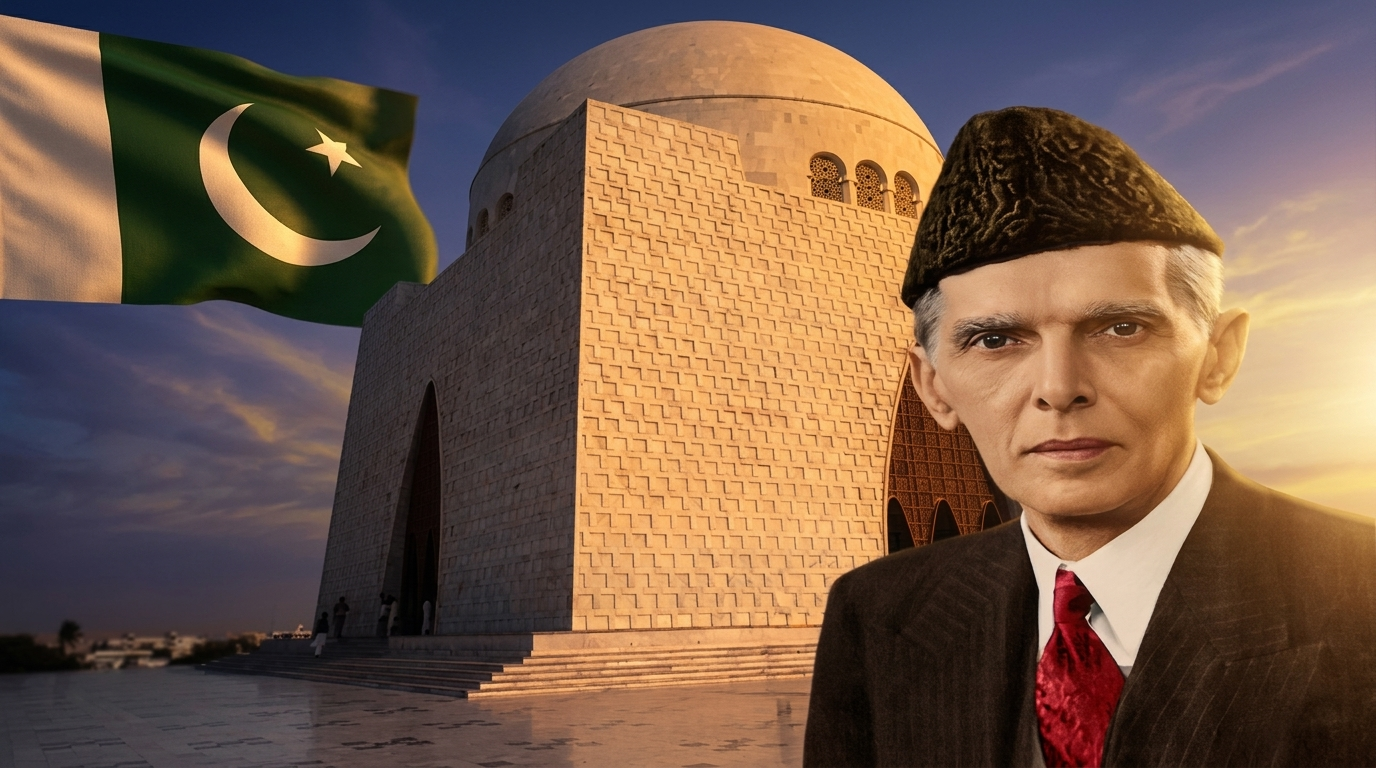
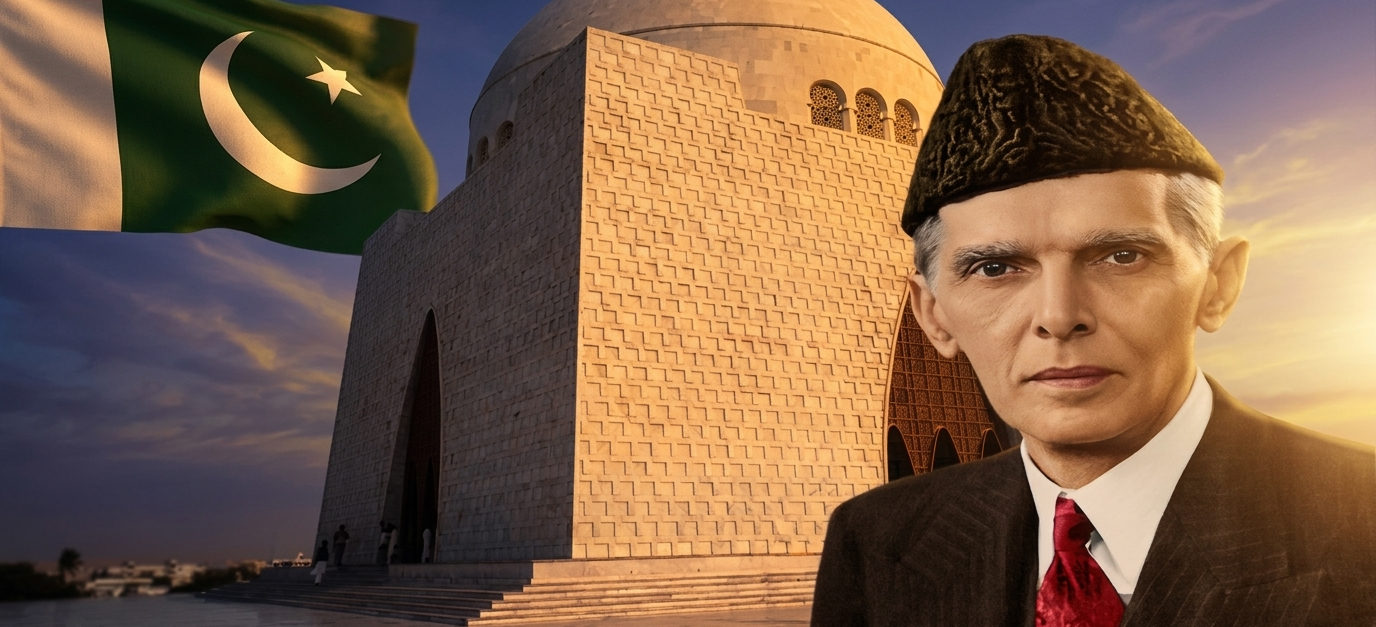
fixing quaid's image

diff --git a/app/components/home/HeroCarousel.tsx b/app/components/home/HeroCarousel.tsx
@@ -6,7 +6,7 @@ export default function HeroSection() {
       <img
         src="hero-bg-2.png"
         alt="Pakistan"
-        className="absolute inset-0 object-cover object-bottom w-full h-full"
+        className="absolute inset-0 object-cover object-center w-full h-full"
       />
       <div className="absolute inset-0 bg-black/65" />
       <div className="absolute inset-0 bg-gradient-to-b from-transparent via-transparent to-green/60" />
